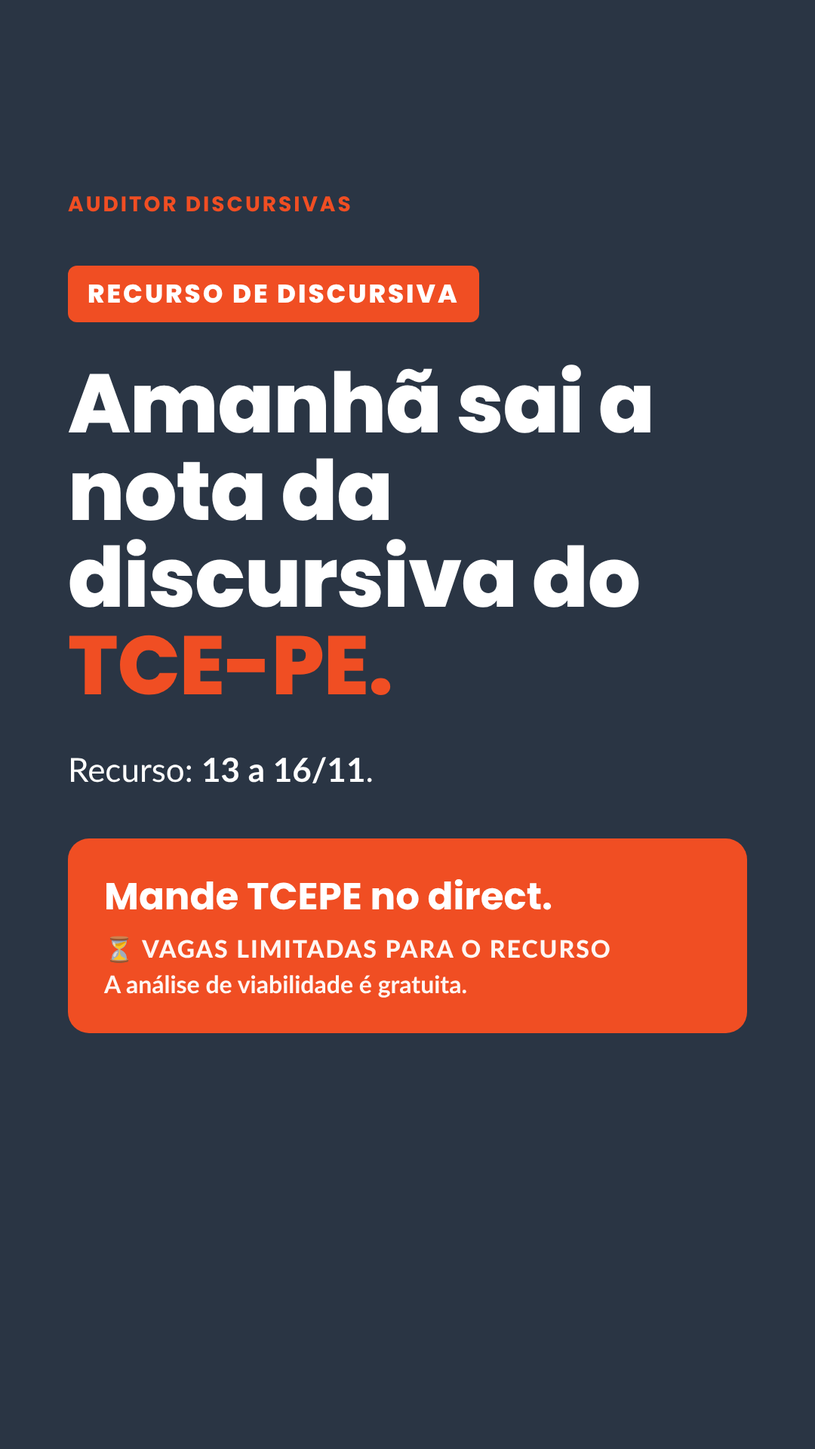
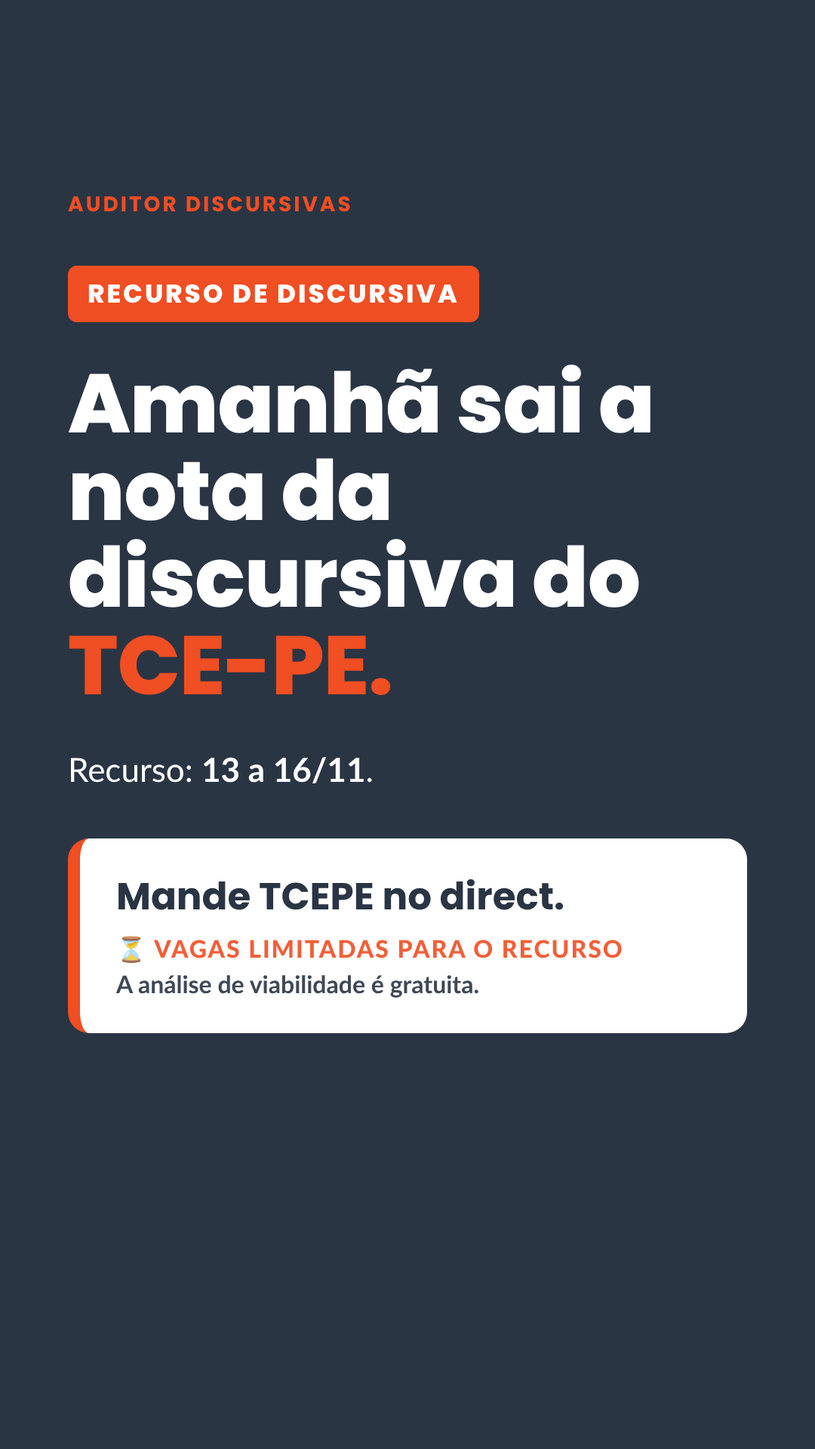
TCE-PE: stories com menos laranja + combo R$ 950 (Samuel, 02/11)
Claude-Session: https://claude.ai/code/session_01DzGKEj4kViGeh2DgZ7c7i9

Changed region(s): [[0.0917, 0.5625, 0.9167, 0.7188]]

diff --git a/fontes/campanha-recurso-tcepe-d7-d1-d/carrossel_d.html b/fontes/campanha-recurso-tcepe-d7-d1-d/carrossel_d.html
@@ -54,4 +54,11 @@ p.mid{font-size:38px;line-height:1.45}
 .st.claro{background:var(--creme);color:var(--navy)}
 .st.claro .op.a{background:#fff;color:var(--navy);border:3px solid var(--navy)}
 .s.claro .cred{opacity:1}
-</style></head><body><section class="s navy"><div class="top"><span class="wm">AUDITOR DISCURSIVAS</span><span class="ct">01 / 04</span></div><div class="sp"></div><div class="selo">RECURSO DE DISCURSIVA</div><h1>Não concorda com a nota da sua discursiva do <em>TCE-PE?</em></h1><div class="chips"><span class="chip">TCE-PE</span><span class="chip">FGV</span><span class="chip">Recurso 13 a 16/11</span></div><p class="big"><b>Você ainda tem chance.</b> O recurso vai de 13 a 16/11.</p><div class="sp"></div><div class="rod"><span>@auditor_discursivas</span><span class="sv">Arraste →</span></div></section><section class="s claro" style="justify-content:center"><div class="top"><span class="wm">AUDITOR DISCURSIVAS</span><span class="ct">02 / 04</span></div><h2>Como funciona <em>comigo</em></h2><ul class="lista"><li><span class="num">1</span><span>Você me manda <b>TCEPE</b>, o cargo e a sua nota de cada item</span></li><li><span class="num">2</span><span>Faço a <b>análise de viabilidade gratuita</b>: sua resposta × espelho</span></li><li><span class="num">3</span><span>Se houver fundamento, eu <b>redijo o recurso</b> item por item, dentro do prazo</span></li></ul><div class="card">Questão discursiva: <b>R$ 350</b> · Peça técnica: <b>R$ 700</b>. A análise de viabilidade é gratuita.</div><div class="rod"><span>@auditor_discursivas</span><span class="sv">Salvar →</span></div></section><section class="s claro" style="justify-content:center"><div class="top"><span class="wm">AUDITOR DISCURSIVAS</span><span class="ct">03 / 04</span></div><h2>4 dias, com <em>fim de semana</em> no meio</h2><div class="tl"><div class="ev"><span class="k">sex 13/11</span><span>Abre o recurso</span></div><div class="ev"><span class="k">sáb 14 e dom 15</span><span>Prazo correndo</span></div><div class="ev d"><span class="k">seg 16/11</span><span><b>Último dia</b></span></div></div><div class="card"><b>Quanto antes você mandar, mais tempo para fundamentar.</b> Depois de 16/11, essa correção não se discute mais.</div><div class="rod"><span>@auditor_discursivas</span><span class="sv">Salvar →</span></div></section><section class="s claro"><div class="top"><span class="wm">AUDITOR DISCURSIVAS</span><span class="ct">04 / 04</span></div><div class="sp"></div><h2>Ponto recuperado é <em>ponto na classificação.</em></h2><p class="big" style="margin:44px 0 52px">Mande agora e eu te digo se o seu recurso tem fundamento.</p><div class="box">Comente TCEPE<small><span style="display:block;font-weight:900;letter-spacing:2px;margin:4px 0 6px">⏳ VAGAS LIMITADAS PARA O RECURSO</span>ou mande <b>TCEPE</b> no direct. A análise de viabilidade é gratuita.</small></div><div class="sp"></div><div class="autor" style="margin-top:0;align-items:center"><div class="foto" style="flex:0 0 190px;width:190px;height:190px"></div><div><b>Samuel Wolf</b><span style="display:block;color:var(--lar);opacity:1;font-weight:700;margin:4px 0 14px">Recursos de provas discursivas</span><ul class="cred"><li>✔ Engenheiro pelo ITA</li><li>✔ Auditor de Controle Externo do TCE-RJ</li><li>✔ Nomeado Auditor Fiscal da SEFAZ-RS</li><li>✔ Nomeado Auditor Fiscal da SEFIN Manaus</li></ul></div></div><div class="rod"><span>@auditor_discursivas</span><span></span></div></section><section class="st navy"><div class="wm">AUDITOR DISCURSIVAS</div><div class="selo">RECURSO DE DISCURSIVA</div><h1 style="font-size:104px">Dia de resultado: discursiva do <em>TCE-PE.</em></h1><p class="big" style="margin:50px 0 60px">Não concordou com a nota? O recurso é de <b>13 a 16/11</b>.</p><div class="box">Mande TCEPE no direct.<small><span style="display:block;font-weight:900;letter-spacing:2px;margin:4px 0 6px">⏳ VAGAS LIMITADAS PARA O RECURSO</span>A análise de viabilidade é gratuita.</small></div><div class="autor"><div class="foto"></div><div><b>Samuel Wolf</b><span>Recursos de provas discursivas</span></div></div></section><section class="st claro"><div class="wm">AUDITOR DISCURSIVAS</div><div class="selo">RECURSO TCE-PE</div><p class="big">Recurso aberto até segunda</p><div class="big-n">16/11</div><p class="big" style="margin:30px 0 60px">Quanto antes, mais tempo para fundamentar.</p><div class="box">Mande TCEPE no direct.<small><span style="display:block;font-weight:900;letter-spacing:2px;margin:4px 0 6px">⏳ VAGAS LIMITADAS PARA O RECURSO</span>A análise de viabilidade é gratuita.</small></div></section><section class="st claro"><div class="wm">AUDITOR DISCURSIVAS</div><div class="selo">RECURSO TCE-PE</div><p class="big">Faltam</p><div class="big-n">3 dias</div><p class="big" style="margin:30px 0 60px">O prazo termina segunda, 16/11.</p><div class="box">Mande TCEPE no direct.<small><span style="display:block;font-weight:900;letter-spacing:2px;margin:4px 0 6px">⏳ VAGAS LIMITADAS PARA O RECURSO</span>A análise de viabilidade é gratuita.</small></div></section><section class="st claro"><div class="wm">AUDITOR DISCURSIVAS</div><div class="selo">RECURSO TCE-PE</div><p class="big">Faltam</p><div class="big-n">2 dias</div><p class="big" style="margin:30px 0 60px">Recurso bom aponta a linha da sua folha que atende ao critério do espelho.</p><div class="box">Mande TCEPE no direct.<small><span style="display:block;font-weight:900;letter-spacing:2px;margin:4px 0 6px">⏳ VAGAS LIMITADAS PARA O RECURSO</span>A análise de viabilidade é gratuita.</small></div></section><section class="st claro"><div class="wm">AUDITOR DISCURSIVAS</div><div class="selo">RECURSO TCE-PE</div><div class="big-n" style="font-size:170px">Último dia</div><p class="big" style="margin:30px 0 60px">O recurso da discursiva do TCE-PE termina <b>hoje</b>.</p><div class="box">Mande TCEPE no direct.<small><span style="display:block;font-weight:900;letter-spacing:2px;margin:4px 0 6px">⏳ VAGAS LIMITADAS PARA O RECURSO</span>A análise de viabilidade é gratuita.</small></div><div class="autor"><div class="foto"></div><div><b>Samuel Wolf</b><span>Recursos de provas discursivas</span></div></div></section></body></html>
+
+/* stories menos laranja (Samuel, 02/11/2026) */
+.st .box{background:#fff;color:var(--navy);border-left:16px solid var(--lar)}
+.st .box small{color:var(--navy);opacity:.9}
+.st .box .vg{color:var(--lar)}
+.st.claro .big-n{color:var(--navy)}
+.st.claro .num{background:var(--navy)}
+</style></head><body><section class="s navy"><div class="top"><span class="wm">AUDITOR DISCURSIVAS</span><span class="ct">01 / 04</span></div><div class="sp"></div><div class="selo">RECURSO DE DISCURSIVA</div><h1>Não concorda com a nota da sua discursiva do <em>TCE-PE?</em></h1><div class="chips"><span class="chip">TCE-PE</span><span class="chip">FGV</span><span class="chip">Recurso 13 a 16/11</span></div><p class="big"><b>Você ainda tem chance.</b> O recurso vai de 13 a 16/11.</p><div class="sp"></div><div class="rod"><span>@auditor_discursivas</span><span class="sv">Arraste →</span></div></section><section class="s claro" style="justify-content:center"><div class="top"><span class="wm">AUDITOR DISCURSIVAS</span><span class="ct">02 / 04</span></div><h2>Como funciona <em>comigo</em></h2><ul class="lista"><li><span class="num">1</span><span>Você me manda <b>TCEPE</b>, o cargo e a sua nota de cada item</span></li><li><span class="num">2</span><span>Faço a <b>análise de viabilidade gratuita</b>: sua resposta × espelho</span></li><li><span class="num">3</span><span>Se houver fundamento, eu <b>redijo o recurso</b> item por item, dentro do prazo</span></li></ul><div class="card">Questão: <b>R$ 350</b> · Peça técnica: <b>R$ 700</b> · Combo questão + peça: <b>R$ 950</b>. A análise de viabilidade é gratuita.</div><div class="rod"><span>@auditor_discursivas</span><span class="sv">Salvar →</span></div></section><section class="s claro" style="justify-content:center"><div class="top"><span class="wm">AUDITOR DISCURSIVAS</span><span class="ct">03 / 04</span></div><h2>4 dias, com <em>fim de semana</em> no meio</h2><div class="tl"><div class="ev"><span class="k">sex 13/11</span><span>Abre o recurso</span></div><div class="ev"><span class="k">sáb 14 e dom 15</span><span>Prazo correndo</span></div><div class="ev d"><span class="k">seg 16/11</span><span><b>Último dia</b></span></div></div><div class="card"><b>Quanto antes você mandar, mais tempo para fundamentar.</b> Depois de 16/11, essa correção não se discute mais.</div><div class="rod"><span>@auditor_discursivas</span><span class="sv">Salvar →</span></div></section><section class="s claro"><div class="top"><span class="wm">AUDITOR DISCURSIVAS</span><span class="ct">04 / 04</span></div><div class="sp"></div><h2>Ponto recuperado é <em>ponto na classificação.</em></h2><p class="big" style="margin:44px 0 52px">Mande agora e eu te digo se o seu recurso tem fundamento.</p><div class="box">Comente TCEPE<small><span class="vg" style="display:block;font-weight:900;letter-spacing:2px;margin:4px 0 6px">⏳ VAGAS LIMITADAS PARA O RECURSO</span>ou mande <b>TCEPE</b> no direct. A análise de viabilidade é gratuita.</small></div><div class="sp"></div><div class="autor" style="margin-top:0;align-items:center"><div class="foto" style="flex:0 0 190px;width:190px;height:190px"></div><div><b>Samuel Wolf</b><span style="display:block;color:var(--lar);opacity:1;font-weight:700;margin:4px 0 14px">Recursos de provas discursivas</span><ul class="cred"><li>✔ Engenheiro pelo ITA</li><li>✔ Auditor de Controle Externo do TCE-RJ</li><li>✔ Nomeado Auditor Fiscal da SEFAZ-RS</li><li>✔ Nomeado Auditor Fiscal da SEFIN Manaus</li></ul></div></div><div class="rod"><span>@auditor_discursivas</span><span></span></div></section><section class="st navy"><div class="wm">AUDITOR DISCURSIVAS</div><div class="selo">RECURSO DE DISCURSIVA</div><h1 style="font-size:104px">Dia de resultado: discursiva do <em>TCE-PE.</em></h1><p class="big" style="margin:50px 0 60px">Não concordou com a nota? O recurso é de <b>13 a 16/11</b>.</p><div class="box">Mande TCEPE no direct.<small><span class="vg" style="display:block;font-weight:900;letter-spacing:2px;margin:4px 0 6px">⏳ VAGAS LIMITADAS PARA O RECURSO</span>A análise de viabilidade é gratuita.</small></div><div class="autor"><div class="foto"></div><div><b>Samuel Wolf</b><span>Recursos de provas discursivas</span></div></div></section><section class="st claro"><div class="wm">AUDITOR DISCURSIVAS</div><div class="selo">RECURSO TCE-PE</div><p class="big">Recurso aberto até segunda</p><div class="big-n">16/11</div><p class="big" style="margin:30px 0 60px">Quanto antes, mais tempo para fundamentar.</p><div class="box">Mande TCEPE no direct.<small><span class="vg" style="display:block;font-weight:900;letter-spacing:2px;margin:4px 0 6px">⏳ VAGAS LIMITADAS PARA O RECURSO</span>A análise de viabilidade é gratuita.</small></div></section><section class="st claro"><div class="wm">AUDITOR DISCURSIVAS</div><div class="selo">RECURSO TCE-PE</div><p class="big">Faltam</p><div class="big-n">3 dias</div><p class="big" style="margin:30px 0 60px">O prazo termina segunda, 16/11.</p><div class="box">Mande TCEPE no direct.<small><span class="vg" style="display:block;font-weight:900;letter-spacing:2px;margin:4px 0 6px">⏳ VAGAS LIMITADAS PARA O RECURSO</span>A análise de viabilidade é gratuita.</small></div></section><section class="st claro"><div class="wm">AUDITOR DISCURSIVAS</div><div class="selo">RECURSO TCE-PE</div><p class="big">Faltam</p><div class="big-n">2 dias</div><p class="big" style="margin:30px 0 60px">Recurso bom aponta a linha da sua folha que atende ao critério do espelho.</p><div class="box">Mande TCEPE no direct.<small><span class="vg" style="display:block;font-weight:900;letter-spacing:2px;margin:4px 0 6px">⏳ VAGAS LIMITADAS PARA O RECURSO</span>A análise de viabilidade é gratuita.</small></div></section><section class="st claro"><div class="wm">AUDITOR DISCURSIVAS</div><div class="selo">RECURSO TCE-PE</div><div class="big-n" style="font-size:170px">Último dia</div><p class="big" style="margin:30px 0 60px">O recurso da discursiva do TCE-PE termina <b>hoje</b>.</p><div class="box">Mande TCEPE no direct.<small><span class="vg" style="display:block;font-weight:900;letter-spacing:2px;margin:4px 0 6px">⏳ VAGAS LIMITADAS PARA O RECURSO</span>A análise de viabilidade é gratuita.</small></div><div class="autor"><div class="foto"></div><div><b>Samuel Wolf</b><span>Recursos de provas discursivas</span></div></div></section></body></html>

diff --git a/fontes/campanha-recurso-tcepe-d7-d1-d/carrossel_d7.html b/fontes/campanha-recurso-tcepe-d7-d1-d/carrossel_d7.html
@@ -54,4 +54,11 @@ p.mid{font-size:38px;line-height:1.45}
 .st.claro{background:var(--creme);color:var(--navy)}
 .st.claro .op.a{background:#fff;color:var(--navy);border:3px solid var(--navy)}
 .s.claro .cred{opacity:1}
-</style></head><body><section class="s navy"><div class="top"><span class="wm">AUDITOR DISCURSIVAS</span><span class="ct">01 / 04</span></div><div class="sp"></div><div class="selo">RECURSO DE DISCURSIVA</div><h1>TCE-PE: a nota da discursiva sai em <em>7 dias.</em></h1><div class="chips"><span class="chip">TCE-PE</span><span class="chip">FGV</span><span class="chip">Cargos reaplicados</span></div><p class="big">E o recurso só vale de <b>13 a 16/11</b>. Quem se prepara agora chega pronto.</p><div class="sp"></div><div class="rod"><span>@auditor_discursivas</span><span class="sv">Arraste →</span></div></section><section class="s claro" style="justify-content:center"><div class="top"><span class="wm">AUDITOR DISCURSIVAS</span><span class="ct">02 / 04</span></div><h2>Na FGV, a janela de recurso é <em>uma só.</em></h2><div class="tl"><div class="ev"><span class="k">12/11</span><span><b>Resultado preliminar</b> da discursiva</span></div><div class="ev d"><span class="k">13 a 16/11</span><span><b>Recurso</b> contra a nota da discursiva</span></div><div class="ev"><span class="k">08/12</span><span><b>Resultado definitivo</b> e resultado final</span></div></div><div class="card">Não há padrão preliminar com recurso próprio, como no Cebraspe. <b>Você vê a nota e recorre no mesmo prazo curto.</b></div><div class="rod"><span>@auditor_discursivas</span><span class="sv">Salvar →</span></div></section><section class="s claro" style="justify-content:center"><div class="top"><span class="wm">AUDITOR DISCURSIVAS</span><span class="ct">03 / 04</span></div><h2>Use esta semana para <em>adiantar o recurso</em></h2><ul class="lista"><li><span class="num">1</span><span>Leia no edital as <b>regras do recurso</b></span></li><li><span class="num">2</span><span>Liste as <b>normas, artigos e acórdãos</b> que você citou</span></li><li><span class="num">3</span><span>Reserve <b>13 a 16/11</b> na agenda</span></li></ul><div class="card"><b>Ponto recuperado no recurso vale tanto quanto questão acertada na objetiva.</b></div><div class="rod"><span>@auditor_discursivas</span><span class="sv">Salvar →</span></div></section><section class="s claro"><div class="top"><span class="wm">AUDITOR DISCURSIVAS</span><span class="ct">04 / 04</span></div><div class="sp"></div><h2>Quer chegar ao dia 13 <em>com o recurso encaminhado?</em></h2><p class="big" style="margin:44px 0 52px">Eu leio a sua resposta contra o espelho e digo se o recurso tem fundamento.</p><div class="box">Comente TCEPE<small><span style="display:block;font-weight:900;letter-spacing:2px;margin:4px 0 6px">⏳ VAGAS LIMITADAS PARA O RECURSO</span>ou mande <b>TCEPE</b> no direct. A análise de viabilidade é gratuita.</small></div><div class="sp"></div><div class="autor" style="margin-top:0;align-items:center"><div class="foto" style="flex:0 0 190px;width:190px;height:190px"></div><div><b>Samuel Wolf</b><span style="display:block;color:var(--lar);opacity:1;font-weight:700;margin:4px 0 14px">Recursos de provas discursivas</span><ul class="cred"><li>✔ Engenheiro pelo ITA</li><li>✔ Auditor de Controle Externo do TCE-RJ</li><li>✔ Nomeado Auditor Fiscal da SEFAZ-RS</li><li>✔ Nomeado Auditor Fiscal da SEFIN Manaus</li></ul></div></div><div class="rod"><span>@auditor_discursivas</span><span></span></div></section><section class="st navy"><div class="wm">AUDITOR DISCURSIVAS</div><div class="selo">RECURSO DE DISCURSIVA</div><p class="big">Discursiva do TCE-PE</p><div class="big-n">7 dias</div><p class="big" style="margin:30px 0 60px">para a nota sair (12/11). O recurso é só de <b>13 a 16/11</b>.</p><div class="box">Mande TCEPE no direct.<small><span style="display:block;font-weight:900;letter-spacing:2px;margin:4px 0 6px">⏳ VAGAS LIMITADAS PARA O RECURSO</span>A análise de viabilidade é gratuita.</small></div></section><section class="st claro"><div class="wm">AUDITOR DISCURSIVAS</div><h1 style="font-size:96px">Como você acha que foi na <em>discursiva do TCE-PE?</em></h1><div class="opt"><div class="op a">💪 Fui bem</div><div class="op b">😬 Posso precisar de recurso</div></div><p class="mid" style="margin-top:60px">Responda no direct com a sua opção. Se for a segunda, mande <b>TCEPE</b>.</p></section><section class="st claro"><div class="wm">AUDITOR DISCURSIVAS</div><h1 style="font-size:92px">Adiante o recurso <em>nesta semana</em></h1><ul class="lista"><li><span class="num">1</span><span>Leia as regras do recurso</span></li><li><span class="num">2</span><span>Liste as normas citadas</span></li><li><span class="num">3</span><span>Reserve 13 a 16/11</span></li></ul><div class="sp"></div><div class="box">Mande TCEPE no direct.<small><span style="display:block;font-weight:900;letter-spacing:2px;margin:4px 0 6px">⏳ VAGAS LIMITADAS PARA O RECURSO</span>A análise de viabilidade é gratuita.</small></div><div class="autor"><div class="foto"></div><div><b>Samuel Wolf</b><span>Recursos de provas discursivas</span></div></div></section></body></html>
+
+/* stories menos laranja (Samuel, 02/11/2026) */
+.st .box{background:#fff;color:var(--navy);border-left:16px solid var(--lar)}
+.st .box small{color:var(--navy);opacity:.9}
+.st .box .vg{color:var(--lar)}
+.st.claro .big-n{color:var(--navy)}
+.st.claro .num{background:var(--navy)}
+</style></head><body><section class="s navy"><div class="top"><span class="wm">AUDITOR DISCURSIVAS</span><span class="ct">01 / 04</span></div><div class="sp"></div><div class="selo">RECURSO DE DISCURSIVA</div><h1>TCE-PE: a nota da discursiva sai em <em>7 dias.</em></h1><div class="chips"><span class="chip">TCE-PE</span><span class="chip">FGV</span><span class="chip">Cargos reaplicados</span></div><p class="big">E o recurso só vale de <b>13 a 16/11</b>. Quem se prepara agora chega pronto.</p><div class="sp"></div><div class="rod"><span>@auditor_discursivas</span><span class="sv">Arraste →</span></div></section><section class="s claro" style="justify-content:center"><div class="top"><span class="wm">AUDITOR DISCURSIVAS</span><span class="ct">02 / 04</span></div><h2>Na FGV, a janela de recurso é <em>uma só.</em></h2><div class="tl"><div class="ev"><span class="k">12/11</span><span><b>Resultado preliminar</b> da discursiva</span></div><div class="ev d"><span class="k">13 a 16/11</span><span><b>Recurso</b> contra a nota da discursiva</span></div><div class="ev"><span class="k">08/12</span><span><b>Resultado definitivo</b> e resultado final</span></div></div><div class="card">Não há padrão preliminar com recurso próprio, como no Cebraspe. <b>Você vê a nota e recorre no mesmo prazo curto.</b></div><div class="rod"><span>@auditor_discursivas</span><span class="sv">Salvar →</span></div></section><section class="s claro" style="justify-content:center"><div class="top"><span class="wm">AUDITOR DISCURSIVAS</span><span class="ct">03 / 04</span></div><h2>Use esta semana para <em>adiantar o recurso</em></h2><ul class="lista"><li><span class="num">1</span><span>Leia no edital as <b>regras do recurso</b></span></li><li><span class="num">2</span><span>Liste as <b>normas, artigos e acórdãos</b> que você citou</span></li><li><span class="num">3</span><span>Reserve <b>13 a 16/11</b> na agenda</span></li></ul><div class="card"><b>Ponto recuperado no recurso vale tanto quanto questão acertada na objetiva.</b></div><div class="rod"><span>@auditor_discursivas</span><span class="sv">Salvar →</span></div></section><section class="s claro"><div class="top"><span class="wm">AUDITOR DISCURSIVAS</span><span class="ct">04 / 04</span></div><div class="sp"></div><h2>Quer chegar ao dia 13 <em>com o recurso encaminhado?</em></h2><p class="big" style="margin:44px 0 52px">Eu leio a sua resposta contra o espelho e digo se o recurso tem fundamento.</p><div class="box">Comente TCEPE<small><span class="vg" style="display:block;font-weight:900;letter-spacing:2px;margin:4px 0 6px">⏳ VAGAS LIMITADAS PARA O RECURSO</span>ou mande <b>TCEPE</b> no direct. A análise de viabilidade é gratuita.</small></div><div class="sp"></div><div class="autor" style="margin-top:0;align-items:center"><div class="foto" style="flex:0 0 190px;width:190px;height:190px"></div><div><b>Samuel Wolf</b><span style="display:block;color:var(--lar);opacity:1;font-weight:700;margin:4px 0 14px">Recursos de provas discursivas</span><ul class="cred"><li>✔ Engenheiro pelo ITA</li><li>✔ Auditor de Controle Externo do TCE-RJ</li><li>✔ Nomeado Auditor Fiscal da SEFAZ-RS</li><li>✔ Nomeado Auditor Fiscal da SEFIN Manaus</li></ul></div></div><div class="rod"><span>@auditor_discursivas</span><span></span></div></section><section class="st navy"><div class="wm">AUDITOR DISCURSIVAS</div><div class="selo">RECURSO DE DISCURSIVA</div><p class="big">Discursiva do TCE-PE</p><div class="big-n">7 dias</div><p class="big" style="margin:30px 0 60px">para a nota sair (12/11). O recurso é só de <b>13 a 16/11</b>.</p><div class="box">Mande TCEPE no direct.<small><span class="vg" style="display:block;font-weight:900;letter-spacing:2px;margin:4px 0 6px">⏳ VAGAS LIMITADAS PARA O RECURSO</span>A análise de viabilidade é gratuita.</small></div></section><section class="st claro"><div class="wm">AUDITOR DISCURSIVAS</div><h1 style="font-size:96px">Como você acha que foi na <em>discursiva do TCE-PE?</em></h1><div class="opt"><div class="op a">💪 Fui bem</div><div class="op b">😬 Posso precisar de recurso</div></div><p class="mid" style="margin-top:60px">Responda no direct com a sua opção. Se for a segunda, mande <b>TCEPE</b>.</p></section><section class="st claro"><div class="wm">AUDITOR DISCURSIVAS</div><h1 style="font-size:92px">Adiante o recurso <em>nesta semana</em></h1><ul class="lista"><li><span class="num">1</span><span>Leia as regras do recurso</span></li><li><span class="num">2</span><span>Liste as normas citadas</span></li><li><span class="num">3</span><span>Reserve 13 a 16/11</span></li></ul><div class="sp"></div><div class="box">Mande TCEPE no direct.<small><span class="vg" style="display:block;font-weight:900;letter-spacing:2px;margin:4px 0 6px">⏳ VAGAS LIMITADAS PARA O RECURSO</span>A análise de viabilidade é gratuita.</small></div><div class="autor"><div class="foto"></div><div><b>Samuel Wolf</b><span>Recursos de provas discursivas</span></div></div></section></body></html>

diff --git a/fontes/campanha-recurso-tcepe-d7-d1-d/carrossel_d1.html b/fontes/campanha-recurso-tcepe-d7-d1-d/carrossel_d1.html
@@ -54,4 +54,11 @@ p.mid{font-size:38px;line-height:1.45}
 .st.claro{background:var(--creme);color:var(--navy)}
 .st.claro .op.a{background:#fff;color:var(--navy);border:3px solid var(--navy)}
 .s.claro .cred{opacity:1}
-</style></head><body><section class="s navy"><div class="top"><span class="wm">AUDITOR DISCURSIVAS</span><span class="ct">01 / 04</span></div><div class="sp"></div><div class="selo">RECURSO DE DISCURSIVA</div><h1>TCE-PE: a nota da discursiva sai <em>amanhã.</em></h1><div class="chips"><span class="chip">TCE-PE</span><span class="chip">FGV</span><span class="chip">Recurso 13 a 16/11</span></div><p class="big">São só 4 dias de prazo. <b>Deixe tudo pronto hoje.</b></p><div class="sp"></div><div class="rod"><span>@auditor_discursivas</span><span class="sv">Arraste →</span></div></section><section class="s claro" style="justify-content:center"><div class="top"><span class="wm">AUDITOR DISCURSIVAS</span><span class="ct">02 / 04</span></div><h2>Checklist para <em>hoje</em></h2><ul class="lista"><li><span class="num">1</span><span>As <b>regras do recurso</b> no edital, já lidas</span></li><li><span class="num">2</span><span>As <b>normas e fundamentos</b> que você usou</span></li><li><span class="num">3</span><span><b>13 a 16/11</b> reservados na agenda</span></li></ul><div class="card">Quando a nota sair, compare <b>item por item</b> com o espelho da banca.</div><div class="rod"><span>@auditor_discursivas</span><span class="sv">Salvar →</span></div></section><section class="s claro" style="justify-content:center"><div class="top"><span class="wm">AUDITOR DISCURSIVAS</span><span class="ct">03 / 04</span></div><h2>Onde o recurso <em>tem argumento</em></h2><ul class="lista"><li><span class="num">1</span><span>Você <b>abordou o item</b> e ele veio zerado ou parcial</span></li><li><span class="num">2</span><span>Você usou <b>fundamento equivalente</b> ao do espelho</span></li><li><span class="num">3</span><span>Houve desconto de forma <b>sem erro identificável</b></span></li></ul><div class="card">Recurso bom não reclama da nota: <b>aponta a linha da sua folha que atende ao critério.</b></div><div class="rod"><span>@auditor_discursivas</span><span class="sv">Salvar →</span></div></section><section class="s claro"><div class="top"><span class="wm">AUDITOR DISCURSIVAS</span><span class="ct">04 / 04</span></div><div class="sp"></div><h2>Saiu e não concordou? <em>Fala comigo.</em></h2><p class="big" style="margin:44px 0 52px">A análise começa assim que você me mandar a sua nota.</p><div class="box">Comente TCEPE<small><span style="display:block;font-weight:900;letter-spacing:2px;margin:4px 0 6px">⏳ VAGAS LIMITADAS PARA O RECURSO</span>ou mande <b>TCEPE</b> no direct. A análise de viabilidade é gratuita.</small></div><div class="sp"></div><div class="autor" style="margin-top:0;align-items:center"><div class="foto" style="flex:0 0 190px;width:190px;height:190px"></div><div><b>Samuel Wolf</b><span style="display:block;color:var(--lar);opacity:1;font-weight:700;margin:4px 0 14px">Recursos de provas discursivas</span><ul class="cred"><li>✔ Engenheiro pelo ITA</li><li>✔ Auditor de Controle Externo do TCE-RJ</li><li>✔ Nomeado Auditor Fiscal da SEFAZ-RS</li><li>✔ Nomeado Auditor Fiscal da SEFIN Manaus</li></ul></div></div><div class="rod"><span>@auditor_discursivas</span><span></span></div></section><section class="st navy"><div class="wm">AUDITOR DISCURSIVAS</div><div class="selo">RECURSO DE DISCURSIVA</div><h1 style="font-size:110px">Amanhã sai a nota da discursiva do <em>TCE-PE.</em></h1><p class="big" style="margin:50px 0 60px">Recurso: <b>13 a 16/11</b>.</p><div class="box">Mande TCEPE no direct.<small><span style="display:block;font-weight:900;letter-spacing:2px;margin:4px 0 6px">⏳ VAGAS LIMITADAS PARA O RECURSO</span>A análise de viabilidade é gratuita.</small></div></section><section class="st claro"><div class="wm">AUDITOR DISCURSIVAS</div><h1 style="font-size:96px">Checklist para <em>hoje</em></h1><ul class="lista"><li><span class="num">1</span><span>Regras do recurso lidas</span></li><li><span class="num">2</span><span>Normas e fundamentos listados</span></li><li><span class="num">3</span><span>13 a 16/11 na agenda</span></li></ul></section><section class="st claro"><div class="wm">AUDITOR DISCURSIVAS</div><h1 style="font-size:92px">Não concordou com a nota? <em>Fala comigo.</em></h1><p class="big" style="margin:50px 0 60px">Eu leio a sua resposta contra o espelho e digo se o recurso tem fundamento.</p><div class="box">Mande TCEPE no direct.<small><span style="display:block;font-weight:900;letter-spacing:2px;margin:4px 0 6px">⏳ VAGAS LIMITADAS PARA O RECURSO</span>A análise de viabilidade é gratuita.</small></div><div class="autor"><div class="foto"></div><div><b>Samuel Wolf</b><span>Recursos de provas discursivas</span></div></div></section></body></html>
+
+/* stories menos laranja (Samuel, 02/11/2026) */
+.st .box{background:#fff;color:var(--navy);border-left:16px solid var(--lar)}
+.st .box small{color:var(--navy);opacity:.9}
+.st .box .vg{color:var(--lar)}
+.st.claro .big-n{color:var(--navy)}
+.st.claro .num{background:var(--navy)}
+</style></head><body><section class="s navy"><div class="top"><span class="wm">AUDITOR DISCURSIVAS</span><span class="ct">01 / 04</span></div><div class="sp"></div><div class="selo">RECURSO DE DISCURSIVA</div><h1>TCE-PE: a nota da discursiva sai <em>amanhã.</em></h1><div class="chips"><span class="chip">TCE-PE</span><span class="chip">FGV</span><span class="chip">Recurso 13 a 16/11</span></div><p class="big">São só 4 dias de prazo. <b>Deixe tudo pronto hoje.</b></p><div class="sp"></div><div class="rod"><span>@auditor_discursivas</span><span class="sv">Arraste →</span></div></section><section class="s claro" style="justify-content:center"><div class="top"><span class="wm">AUDITOR DISCURSIVAS</span><span class="ct">02 / 04</span></div><h2>Checklist para <em>hoje</em></h2><ul class="lista"><li><span class="num">1</span><span>As <b>regras do recurso</b> no edital, já lidas</span></li><li><span class="num">2</span><span>As <b>normas e fundamentos</b> que você usou</span></li><li><span class="num">3</span><span><b>13 a 16/11</b> reservados na agenda</span></li></ul><div class="card">Quando a nota sair, compare <b>item por item</b> com o espelho da banca.</div><div class="rod"><span>@auditor_discursivas</span><span class="sv">Salvar →</span></div></section><section class="s claro" style="justify-content:center"><div class="top"><span class="wm">AUDITOR DISCURSIVAS</span><span class="ct">03 / 04</span></div><h2>Onde o recurso <em>tem argumento</em></h2><ul class="lista"><li><span class="num">1</span><span>Você <b>abordou o item</b> e ele veio zerado ou parcial</span></li><li><span class="num">2</span><span>Você usou <b>fundamento equivalente</b> ao do espelho</span></li><li><span class="num">3</span><span>Houve desconto de forma <b>sem erro identificável</b></span></li></ul><div class="card">Recurso bom não reclama da nota: <b>aponta a linha da sua folha que atende ao critério.</b></div><div class="rod"><span>@auditor_discursivas</span><span class="sv">Salvar →</span></div></section><section class="s claro"><div class="top"><span class="wm">AUDITOR DISCURSIVAS</span><span class="ct">04 / 04</span></div><div class="sp"></div><h2>Saiu e não concordou? <em>Fala comigo.</em></h2><p class="big" style="margin:44px 0 52px">A análise começa assim que você me mandar a sua nota.</p><div class="box">Comente TCEPE<small><span class="vg" style="display:block;font-weight:900;letter-spacing:2px;margin:4px 0 6px">⏳ VAGAS LIMITADAS PARA O RECURSO</span>ou mande <b>TCEPE</b> no direct. A análise de viabilidade é gratuita.</small></div><div class="sp"></div><div class="autor" style="margin-top:0;align-items:center"><div class="foto" style="flex:0 0 190px;width:190px;height:190px"></div><div><b>Samuel Wolf</b><span style="display:block;color:var(--lar);opacity:1;font-weight:700;margin:4px 0 14px">Recursos de provas discursivas</span><ul class="cred"><li>✔ Engenheiro pelo ITA</li><li>✔ Auditor de Controle Externo do TCE-RJ</li><li>✔ Nomeado Auditor Fiscal da SEFAZ-RS</li><li>✔ Nomeado Auditor Fiscal da SEFIN Manaus</li></ul></div></div><div class="rod"><span>@auditor_discursivas</span><span></span></div></section><section class="st navy"><div class="wm">AUDITOR DISCURSIVAS</div><div class="selo">RECURSO DE DISCURSIVA</div><h1 style="font-size:110px">Amanhã sai a nota da discursiva do <em>TCE-PE.</em></h1><p class="big" style="margin:50px 0 60px">Recurso: <b>13 a 16/11</b>.</p><div class="box">Mande TCEPE no direct.<small><span class="vg" style="display:block;font-weight:900;letter-spacing:2px;margin:4px 0 6px">⏳ VAGAS LIMITADAS PARA O RECURSO</span>A análise de viabilidade é gratuita.</small></div></section><section class="st claro"><div class="wm">AUDITOR DISCURSIVAS</div><h1 style="font-size:96px">Checklist para <em>hoje</em></h1><ul class="lista"><li><span class="num">1</span><span>Regras do recurso lidas</span></li><li><span class="num">2</span><span>Normas e fundamentos listados</span></li><li><span class="num">3</span><span>13 a 16/11 na agenda</span></li></ul></section><section class="st claro"><div class="wm">AUDITOR DISCURSIVAS</div><h1 style="font-size:92px">Não concordou com a nota? <em>Fala comigo.</em></h1><p class="big" style="margin:50px 0 60px">Eu leio a sua resposta contra o espelho e digo se o recurso tem fundamento.</p><div class="box">Mande TCEPE no direct.<small><span class="vg" style="display:block;font-weight:900;letter-spacing:2px;margin:4px 0 6px">⏳ VAGAS LIMITADAS PARA O RECURSO</span>A análise de viabilidade é gratuita.</small></div><div class="autor"><div class="foto"></div><div><b>Samuel Wolf</b><span>Recursos de provas discursivas</span></div></div></section></body></html>

diff --git a/fontes/campanha-recurso-tcepe-d7-d1-d/base.css b/fontes/campanha-recurso-tcepe-d7-d1-d/base.css
@@ -54,3 +54,10 @@ p.mid{font-size:38px;line-height:1.45}
 .st.claro{background:var(--creme);color:var(--navy)}
 .st.claro .op.a{background:#fff;color:var(--navy);border:3px solid var(--navy)}
 .s.claro .cred{opacity:1}
+
+/* stories menos laranja (Samuel, 02/11/2026) */
+.st .box{background:#fff;color:var(--navy);border-left:16px solid var(--lar)}
+.st .box small{color:var(--navy);opacity:.9}
+.st .box .vg{color:var(--lar)}
+.st.claro .big-n{color:var(--navy)}
+.st.claro .num{background:var(--navy)}

diff --git a/fontes/campanha-recurso-tcepe-d7-d1-d/gerar.py b/fontes/campanha-recurso-tcepe-d7-d1-d/gerar.py
@@ -3,7 +3,7 @@ import pathlib
 
 CSS = pathlib.Path(__file__).with_name('base.css').read_text(encoding='utf-8')
 ROD = '<div class="rod"><span>@auditor_discursivas</span><span class="sv">{}</span></div>'
-CTA_SMALL = '<span style="display:block;font-weight:900;letter-spacing:2px;margin:4px 0 6px">⏳ VAGAS LIMITADAS PARA O RECURSO</span>ou mande <b>TCEPE</b> no direct. A análise de viabilidade é gratuita.'
+CTA_SMALL = '<span class="vg" style="display:block;font-weight:900;letter-spacing:2px;margin:4px 0 6px">⏳ VAGAS LIMITADAS PARA O RECURSO</span>ou mande <b>TCEPE</b> no direct. A análise de viabilidade é gratuita.'
 AUTOR = ('<div class="autor" style="margin-top:0;align-items:center"><div class="foto" style="flex:0 0 190px;width:190px;height:190px"></div>'
          '<div><b>Samuel Wolf</b><span style="display:block;color:var(--lar);opacity:1;font-weight:700;margin:4px 0 14px">Recursos de provas discursivas</span>'
          '<ul class="cred"><li>✔ Engenheiro pelo ITA</li><li>✔ Auditor de Controle Externo do TCE-RJ</li>'
@@ -43,7 +43,7 @@ def story(corpo, tom='claro'):
     return f'<section class="st {tom}"><div class="wm">AUDITOR DISCURSIVAS</div>{corpo}</section>'
 
 
-BOX_ST = '<div class="box">Mande TCEPE no direct.<small><span style="display:block;font-weight:900;letter-spacing:2px;margin:4px 0 6px">⏳ VAGAS LIMITADAS PARA O RECURSO</span>A análise de viabilidade é gratuita.</small></div>'
+BOX_ST = '<div class="box">Mande TCEPE no direct.<small><span class="vg" style="display:block;font-weight:900;letter-spacing:2px;margin:4px 0 6px">⏳ VAGAS LIMITADAS PARA O RECURSO</span>A análise de viabilidade é gratuita.</small></div>'
 CHIPS = ['TCE-PE', 'FGV', 'Cargos reaplicados']
 
 CAMP = {
@@ -100,7 +100,7 @@ CAMP = {
           ['Você me manda <b>TCEPE</b>, o cargo e a sua nota de cada item',
            'Faço a <b>análise de viabilidade gratuita</b>: sua resposta × espelho',
            'Se houver fundamento, eu <b>redijo o recurso</b> item por item, dentro do prazo'],
-          'Questão discursiva: <b>R$ 350</b> · Peça técnica: <b>R$ 700</b>. A análise de viabilidade é gratuita.'),
+          'Questão: <b>R$ 350</b> · Peça técnica: <b>R$ 700</b> · Combo questão + peça: <b>R$ 950</b>. A análise de viabilidade é gratuita.'),
     linha(3, 4, '4 dias, com <em>fim de semana</em> no meio',
           [('sex 13/11', 'Abre o recurso', False), ('sáb 14 e dom 15', 'Prazo correndo', False), ('seg 16/11', '<b>Último dia</b>', True)],
           '<b>Quanto antes você mandar, mais tempo para fundamentar.</b> Depois de 16/11, essa correção não se discute mais.'),
